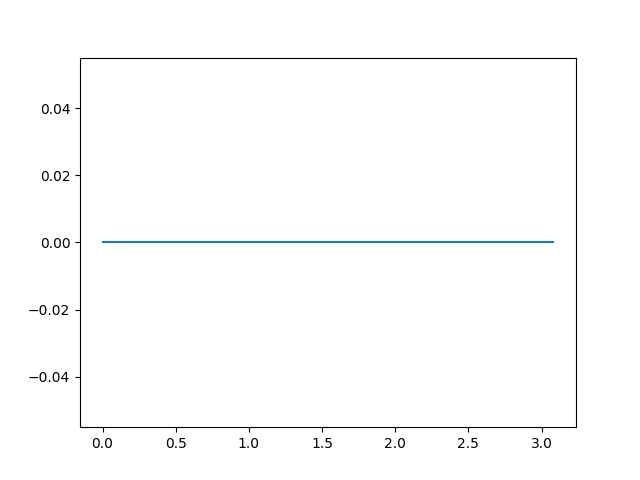
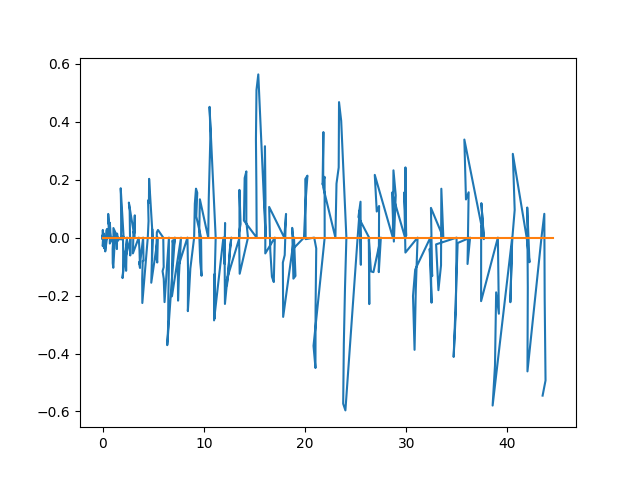
update windows

diff --git a/simulation.py b/simulation.py
@@ -12,7 +12,7 @@ lf = 0.5  # distance from CoM to front wheels
 
 dt = 0.1  # timestep
 
-N = 100  # simulate for 1000 timesteps
+N = 300  # simulate for 1000 timesteps
 
 w = 5 # size of window
 
@@ -69,54 +69,50 @@ def main():
     for i in range(N):
 
         if i % w == 0: # if window
-            random_state = [random_state[0], random_state[1],random.uniform(-state[2],state[2]), random.uniform(-state[3],state[3])]
+            random_state = state
+        time.sleep(0.1)
+        if keyboard.is_pressed('q'):
+            print('left')
+            delta_f += 0.0001
+        elif keyboard.is_pressed('z'):
+            print('up')
+            a += 0.01
+        elif keyboard.is_pressed('d'):
+            print('right')
+            delta_f -= 0.0001
+        elif keyboard.is_pressed('s'):
+            print('down')
+            a -= 0.01
         else:
-            time.sleep(0.1)
-            if keyboard.is_pressed('q'):
-                print('left')
-                delta_f += 0.0001
-            elif keyboard.is_pressed('z'):
-                print('up')
-                a += 0.01
-            elif keyboard.is_pressed('d'):
-                print('right')
+            if delta_f > 0.0:
                 delta_f -= 0.0001
-            elif keyboard.is_pressed('s'):
-                print('down')
-                a -= 0.01
-            else:
-                if delta_f > 0.0:
-                    delta_f -= 0.0001
-                elif delta_f < 0.0:
-                    delta_f += 0.0001
+            elif delta_f < 0.0:
+                delta_f += 0.0001
 
-            # get derivative
-            state_dot = f_prime(state, a, delta_f)
-            random_state_dot = f_prime(random_state, random.uniform(-a,a), random.uniform(-delta_f, delta_f))
+        # get derivative
+        state_dot = f_prime(state, a, delta_f)
+        random_state_dot = f_prime(random_state, random.uniform(-1,1), random.uniform(-1, 1))
 
-            # integrate
-            # state = state + state_dot*dt
-            x.append(state[0])
-            y.append(state[1])
-            random_x.append(random_state[0])
-            random_y.append(random_state[1])
+        # integrate
+        # state = state + state_dot*dt
+        x.append(state[0])
+        y.append(state[1])
+        random_x.append(random_state[0])
+        random_y.append(random_state[1])
 
-            state = euler(state, state_dot, dt)
+        state = euler(state, state_dot, dt)
 
-            print(random_state)
-            random_state = euler(random_state,random_state_dot, dt)
-            #print(state)
-            print(random_state)
-            print('......................')
-            states.append(state)
-            random_states.append(random_state)
-            
-    plt.plot(x,y)
-    plt.savefig('myfig')
-    plt.close()
+        print(random_state)
+        random_state = euler(random_state,random_state_dot, dt)
+        #print(state)
+        print(random_state)
+        print('......................')
+        states.append(state)
+        random_states.append(random_state)
 
     plt.plot(random_x,random_y)
-    plt.savefig('myfig_random')
+    plt.plot(x,y)
+    plt.savefig('myfig')
     # plt.show()
 
     # print resultng trajectory
